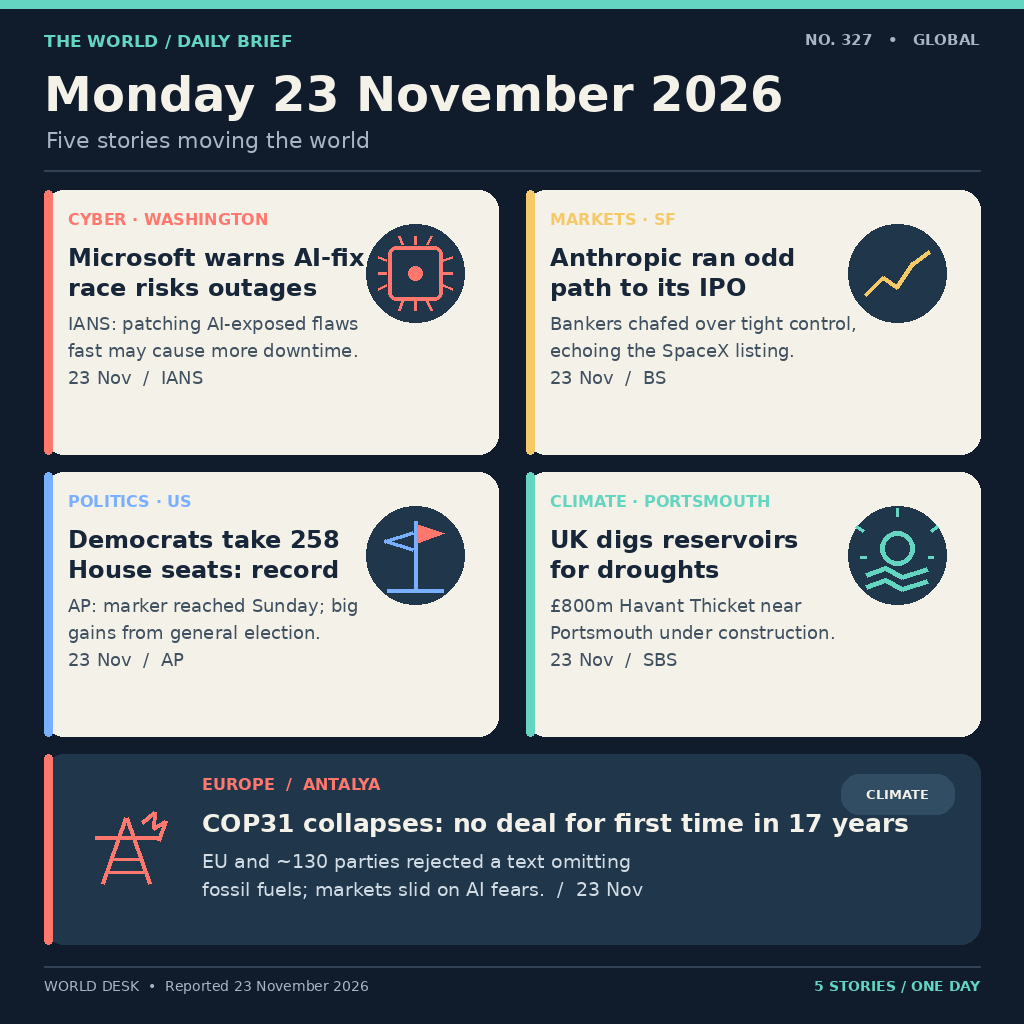
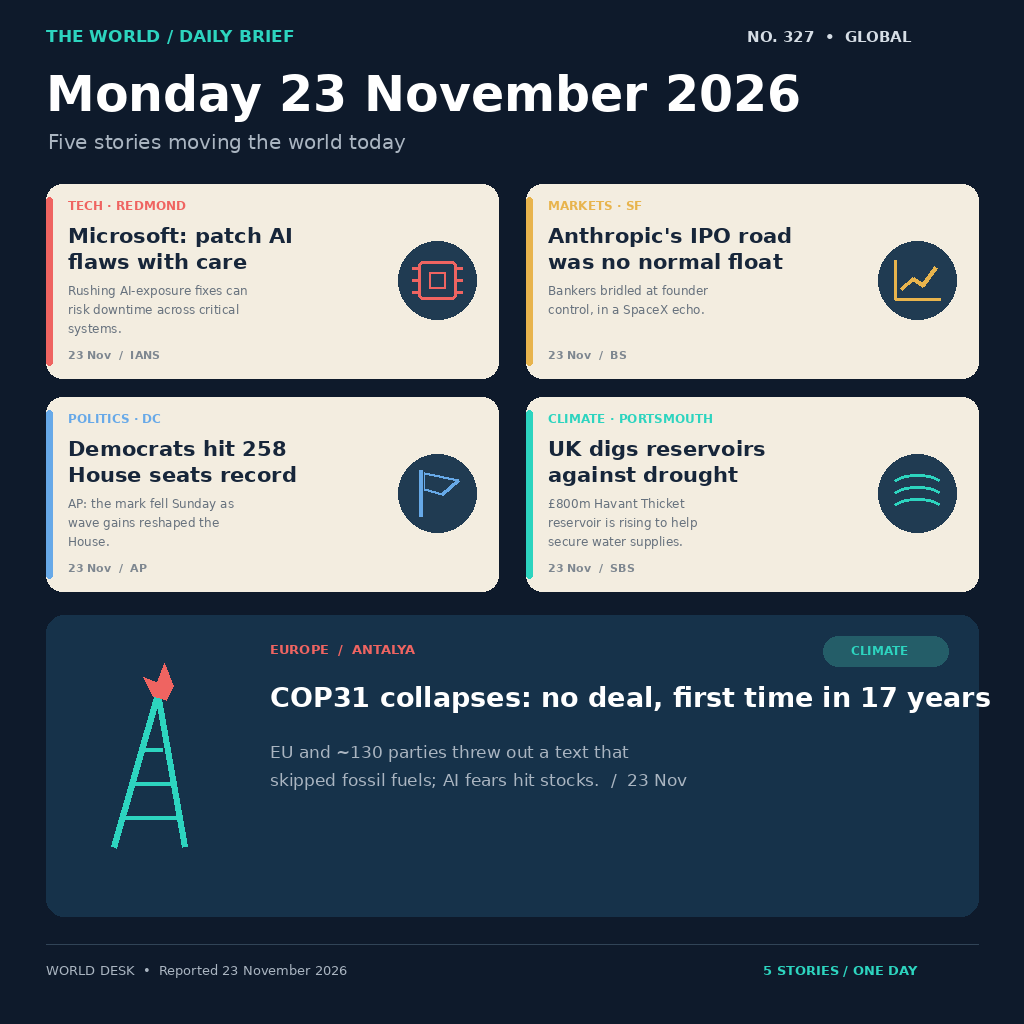
news r5 (PIL fallback + entry.png)

diff --git a/main.py b/main.py
@@ -1,5 +1,12 @@
 import os
-from PIL import Image, ImageDraw, ImageFont
+import sys, shutil
+try:
+    from PIL import Image, ImageDraw, ImageFont
+except Exception:
+    _out = os.path.join(os.environ.get("MAKEFUN_OUTPUT_DIR", "/output"), "entry.png")
+    os.makedirs(os.path.dirname(_out) or ".", exist_ok=True)
+    shutil.copyfile(os.path.join(os.environ.get("MAKEFUN_BOT_DIR", "/bot"), "entry.png"), _out)
+    sys.exit(0)
 
 W = H = 1024
 NAVY = "#0e1a2b"
